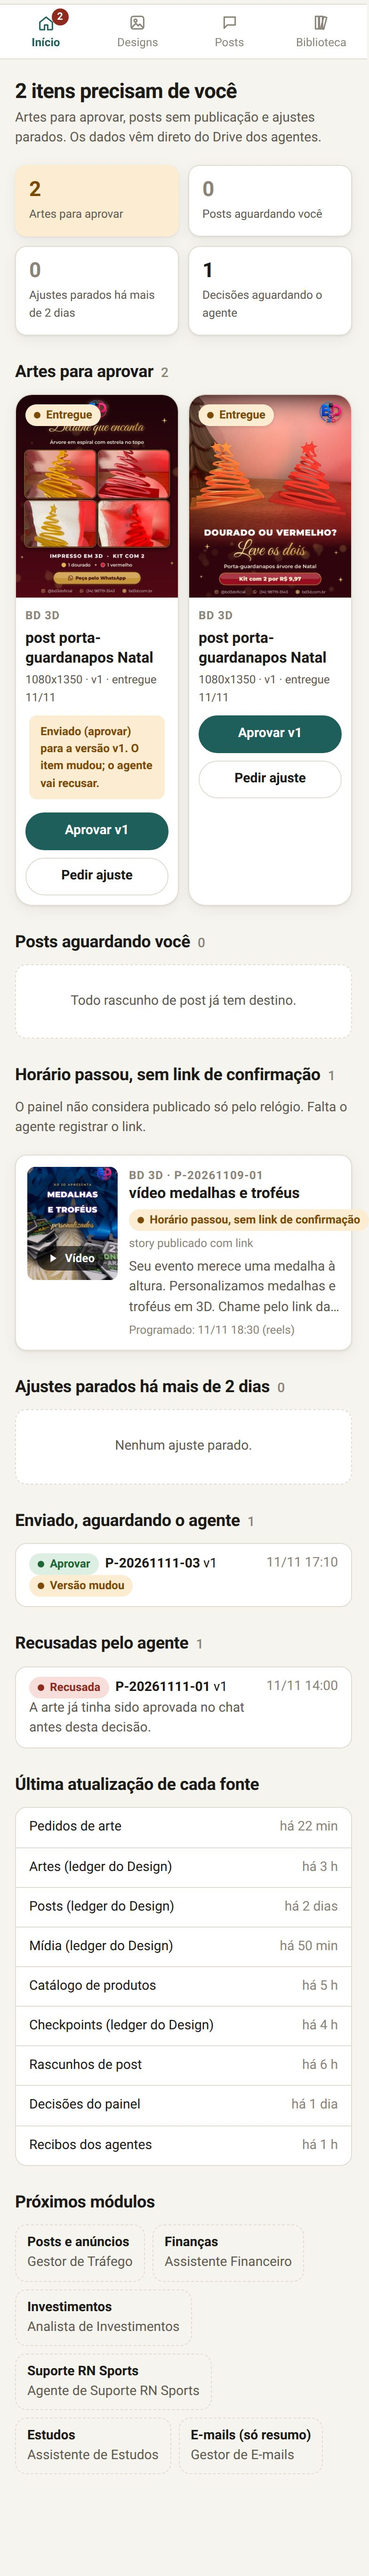
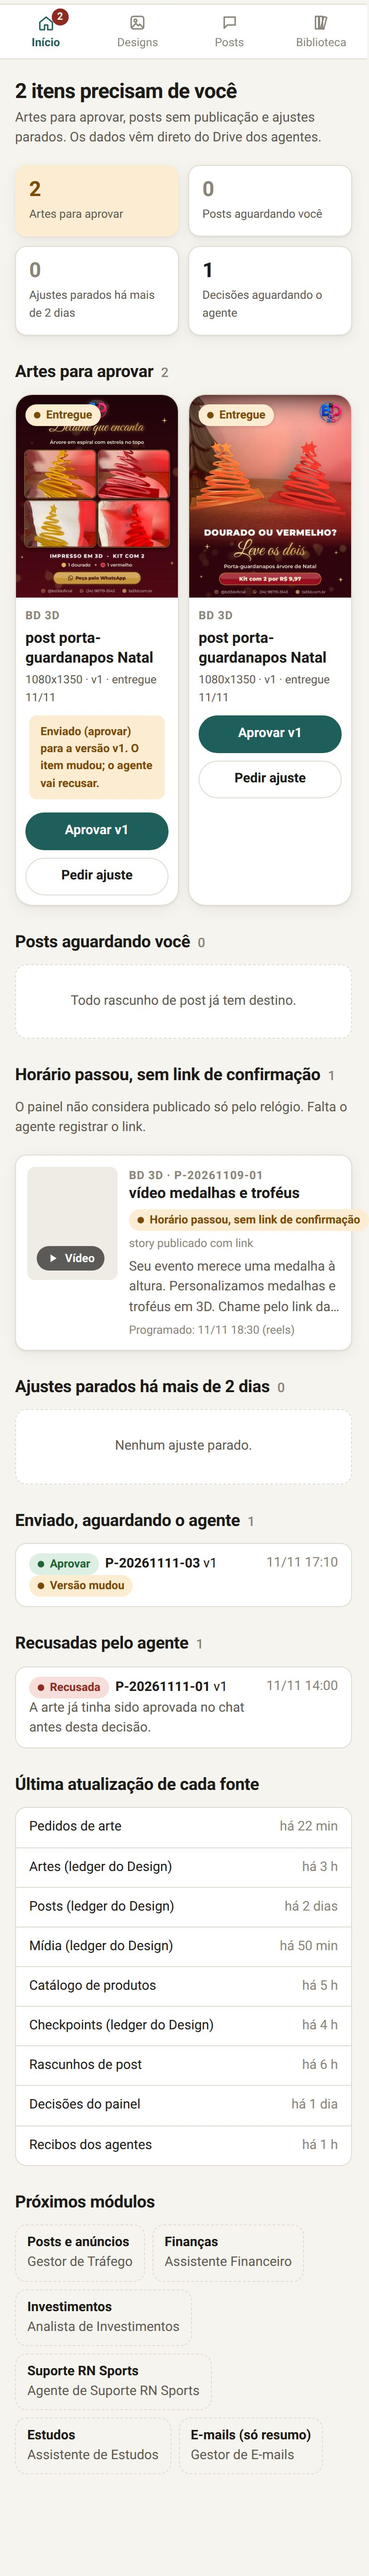
Aviso flutuante mais largo para mensagens longas

Changed region(s): [[0.0612, 0.4354, 0.3367, 0.4976]]

diff --git a/src/Styles.html b/src/Styles.html
@@ -233,6 +233,6 @@ h2 .qtd { font-size: var(--text-sm); color: var(--texto-3); font-weight: 500; }
 .esqueleto { background: linear-gradient(90deg, var(--superficie-2), var(--borda), var(--superficie-2)); background-size: 200% 100%; animation: brilho 1.2s ease-in-out infinite; border-radius: var(--r-md); }
 @keyframes brilho { to { background-position: -200% 0; } }
 
-.aviso-flutuante { position: fixed; left: 50%; bottom: calc(88px + env(safe-area-inset-bottom)); transform: translateX(-50%); z-index: 60; padding: 10px 16px; border-radius: var(--r-md); max-width: min(92vw, 520px); text-align: center; background: var(--texto); color: var(--fundo); font-size: var(--text-sm); font-weight: 600; box-shadow: var(--sombra); max-width: calc(100% - 32px); }
+.aviso-flutuante { position: fixed; left: 50%; bottom: calc(88px + env(safe-area-inset-bottom)); transform: translateX(-50%); z-index: 60; padding: 10px 16px; border-radius: var(--r-md); width: max-content; max-width: min(92vw, 520px); text-align: center; background: var(--texto); color: var(--fundo); font-size: var(--text-sm); font-weight: 600; box-shadow: var(--sombra); max-width: calc(100% - 32px); }
 @media (min-width: 900px) { .aviso-flutuante { bottom: 24px; } }
 </style>
